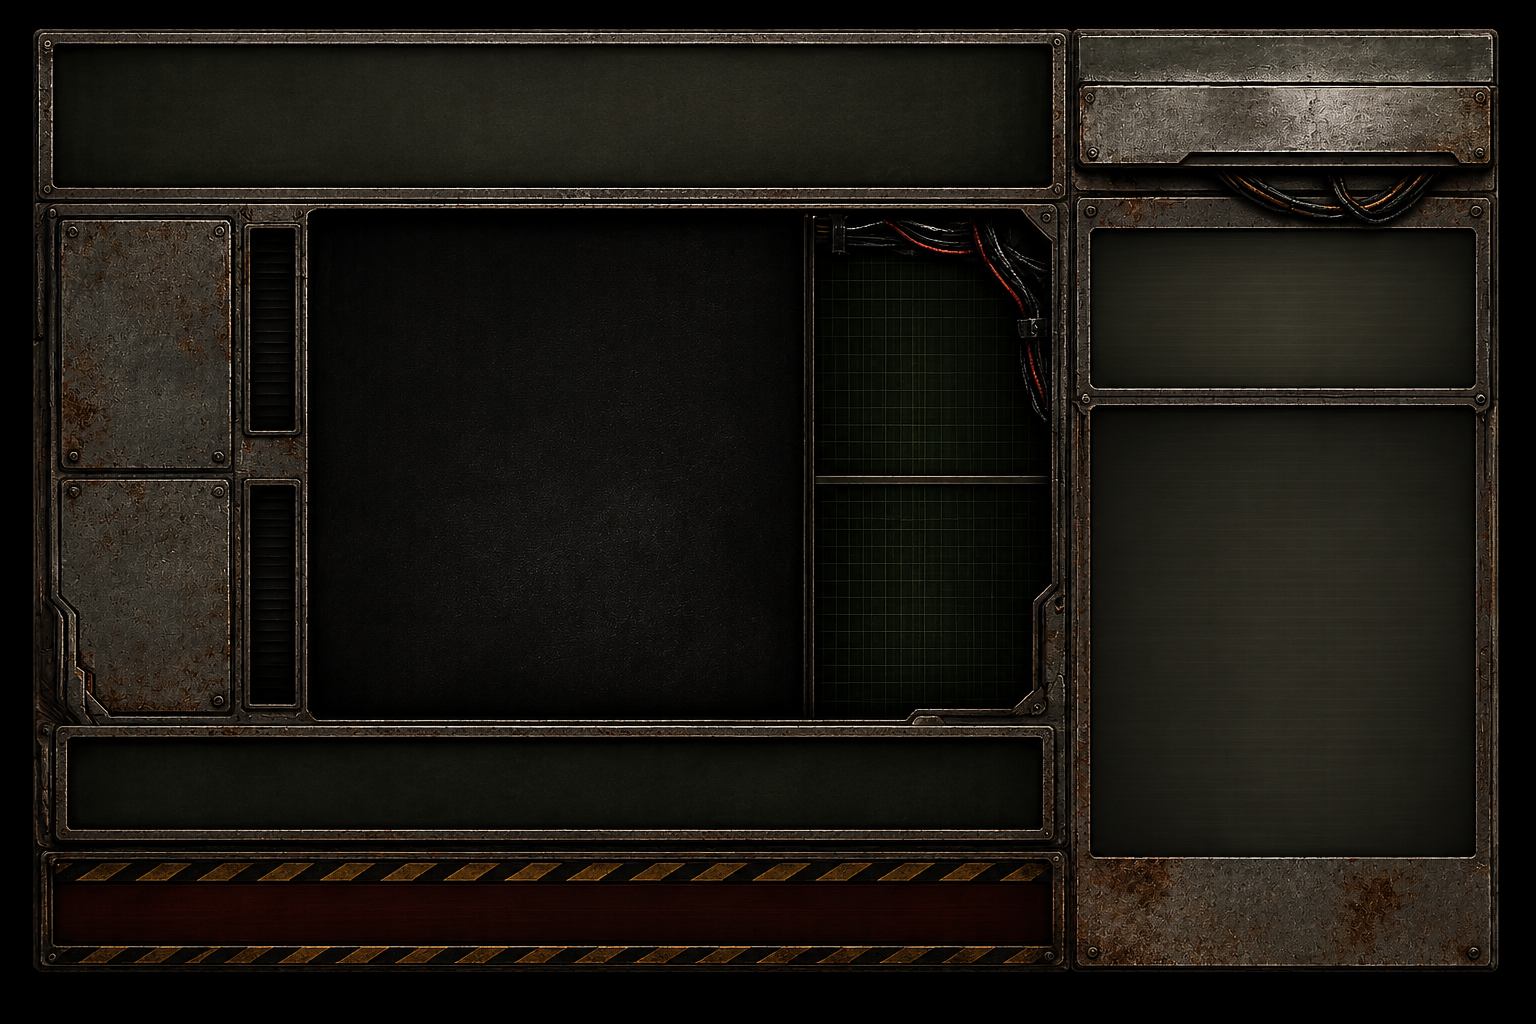
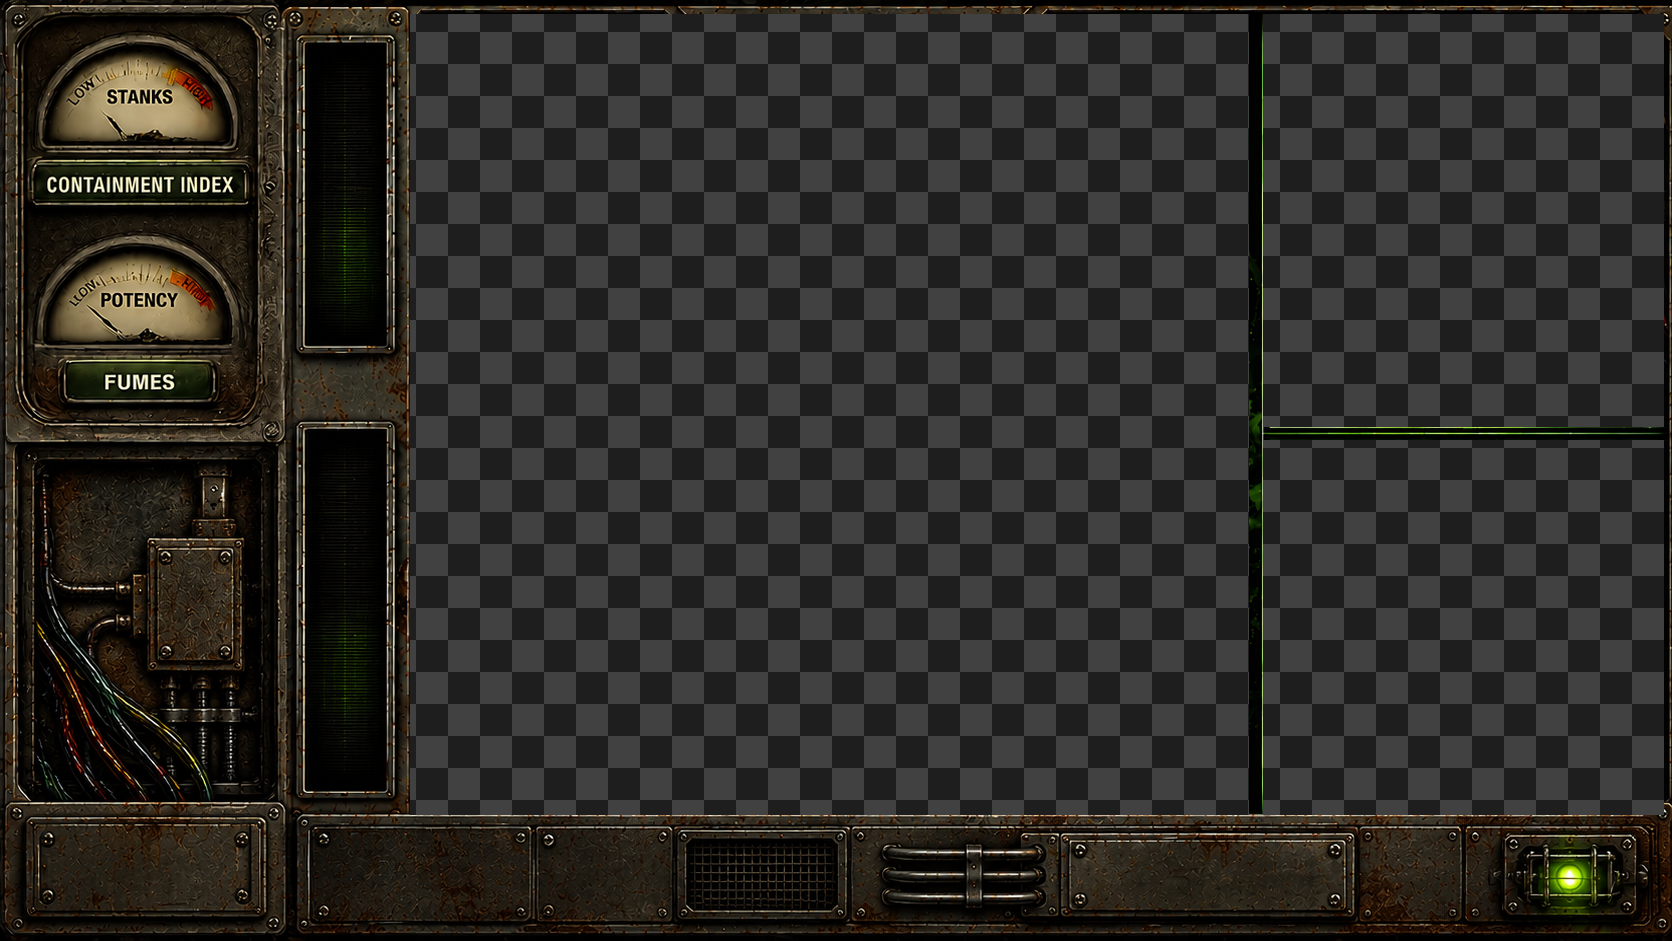
Player shell alignment and containment chambers

diff --git a/src/styles.css b/src/styles.css
@@ -7545,3 +7545,272 @@ dd {
     filter: brightness(1.12) saturate(1.08) !important;
   }
 }
+
+/* === SR-052 NEW PLAYER SHELL ALIGNMENT === */
+@media (min-width: 1101px) {
+  .industrialPlayerShell {
+    background:
+      url("/images/industrial-player-shell-v2-final.png")
+      center center / 100% 100% no-repeat !important;
+  }
+
+  /* These are now baked into the shell image */
+  .shellTitleStrip,
+  .shellMeters {
+    display: none !important;
+  }
+
+  .shellCoverViewport {
+    left: 24.25% !important;
+    top: 1.05% !important;
+    width: 51.1% !important;
+    height: 88.6% !important;
+    background:
+      url("/images/filth-skull-tile.png") center / 190px 190px repeat,
+      #020602 !important;
+  }
+
+  .shellCoverViewport img {
+    width: 100% !important;
+    height: 100% !important;
+    max-width: none !important;
+    max-height: none !important;
+    object-fit: cover !important;
+  }
+
+  .shellCoverViewport em {
+    top: 1rem !important;
+    left: 1rem !important;
+  }
+
+  .shellVizViewport {
+    left: 75.8% !important;
+    top: 1.05% !important;
+    width: 23.5% !important;
+    height: 45.4% !important;
+  }
+
+  .shellLyricsPanel {
+    left: 75.8% !important;
+    top: 46.9% !important;
+    width: 23.5% !important;
+    height: 42.6% !important;
+    padding: 0.75rem 0.85rem !important;
+  }
+
+  .shellDossierPanel {
+    left: 1.2% !important;
+    top: 65.8% !important;
+    width: 21.5% !important;
+    height: 22.7% !important;
+    padding: 0.75rem 0.75rem !important;
+  }
+
+  .shellDossierPanel h2 {
+    font-size: clamp(0.9rem, 1.15vw, 1.25rem) !important;
+    line-height: 1 !important;
+  }
+
+  .shellDossierPanel p {
+    font-size: 0.66rem !important;
+    line-height: 1.18 !important;
+    max-width: 100% !important;
+  }
+
+  .shellTransport {
+    left: 1.4% !important;
+    right: 1.4% !important;
+    bottom: 1.3% !important;
+    height: 7.2% !important;
+  }
+}
+
+/* === SR-053 PLAYER SHELL VIEWPORT CORRECTION === */
+@media (min-width: 1101px) {
+  .shellCoverViewport {
+    left: 24.25% !important;
+    top: 1.3% !important;
+    width: 51.0% !important;
+    height: 88.0% !important;
+  }
+
+  .shellCoverViewport img {
+    width: 100% !important;
+    height: 100% !important;
+    object-fit: cover !important;
+  }
+
+  .shellVizViewport {
+    left: 75.75% !important;
+    top: 1.25% !important;
+    width: 23.45% !important;
+    height: 45.5% !important;
+  }
+
+  .shellLyricsPanel {
+    left: 75.75% !important;
+    top: 47.15% !important;
+    width: 23.45% !important;
+    height: 42.0% !important;
+  }
+
+  .shellDossierPanel {
+    left: 1.25% !important;
+    top: 65.3% !important;
+    width: 21.7% !important;
+    height: 23.3% !important;
+  }
+
+  .shellTransport {
+    left: 1.2% !important;
+    right: 1.2% !important;
+    bottom: 1.1% !important;
+    height: 7.4% !important;
+  }
+}
+
+/* === SR-054 DESKTOP PLAYER/LIBRARY BALANCE === */
+@media (min-width: 1101px) {
+  .industrialShell {
+    grid-template-columns: 56.5vw 43.5vw !important;
+  }
+
+  .shellCoverViewport {
+    left: 24.4% !important;
+    top: 1.2% !important;
+    width: 51.0% !important;
+    height: 88.2% !important;
+  }
+
+  .shellVizViewport {
+    left: 75.7% !important;
+    top: 1.3% !important;
+    width: 23.4% !important;
+    height: 45.2% !important;
+  }
+
+  .shellLyricsPanel {
+    left: 75.7% !important;
+    top: 47.0% !important;
+    width: 23.4% !important;
+    height: 42.2% !important;
+  }
+
+  .shellDossierPanel {
+    left: 1.2% !important;
+    top: 65.6% !important;
+    width: 21.8% !important;
+    height: 22.8% !important;
+  }
+
+  .shellTransport {
+    left: 1.1% !important;
+    right: 1.1% !important;
+    bottom: 1.15% !important;
+    height: 7.2% !important;
+  }
+}
+
+/* === SR-055 TRUE TRANSPARENT WINDOW ALIGNMENT === */
+@media (min-width: 1101px) {
+  .shellCoverViewport {
+    left: 24.1% !important;
+    top: 1.4% !important;
+    width: 50.0% !important;
+    height: 88.0% !important;
+  }
+
+  .shellVizViewport {
+    left: 74.9% !important;
+    top: 1.4% !important;
+    width: 24.0% !important;
+    height: 45.2% !important;
+  }
+
+  .shellLyricsPanel {
+    left: 74.9% !important;
+    top: 47.0% !important;
+    width: 24.0% !important;
+    height: 42.0% !important;
+  }
+
+  .shellDossierPanel {
+    left: 1.2% !important;
+    top: 65.0% !important;
+    width: 21.8% !important;
+    height: 23.5% !important;
+  }
+
+  .shellCoverViewport img {
+    object-fit: cover !important;
+  }
+}
+
+/* === SR-056 VIEWPORT CONTAINMENT FIX === */
+@media (min-width: 1101px) {
+
+  .shellCoverViewport {
+    overflow: hidden !important;
+  }
+
+  .shellCoverViewport img {
+    width: 100% !important;
+    height: 100% !important;
+    max-width: none !important;
+    max-height: none !important;
+    object-fit: cover !important;
+    display: block !important;
+  }
+
+  .shellVizViewport {
+    overflow: hidden !important;
+  }
+
+  .shellLyricsPanel {
+    overflow: hidden !important;
+  }
+}
+
+/* === SR-057 STANK CHAMBER FILL === */
+@media (min-width: 1101px) {
+  .shellCoverViewport {
+    width: 49.1% !important;
+  }
+
+  .shellVizViewport {
+    background:
+      radial-gradient(circle at 50% 50%, rgba(158,255,53,0.16), transparent 48%),
+      repeating-linear-gradient(0deg, rgba(186,255,66,0.12) 0 1px, transparent 1px 10px),
+      repeating-linear-gradient(90deg, rgba(186,255,66,0.09) 0 1px, transparent 1px 10px),
+      rgba(0, 8, 0, 0.82) !important;
+    box-shadow: inset 0 0 28px rgba(0,0,0,0.9) !important;
+  }
+
+  .shellLyricsPanel {
+    background:
+      linear-gradient(rgba(0,0,0,0.72), rgba(0,0,0,0.82)),
+      repeating-linear-gradient(0deg, rgba(186,255,66,0.035) 0 1px, transparent 1px 6px),
+      rgba(0, 8, 0, 0.72) !important;
+    box-shadow: inset 0 0 26px rgba(0,0,0,0.88) !important;
+  }
+
+  .shellDossierPanel {
+    background:
+      linear-gradient(rgba(0,0,0,0.72), rgba(0,0,0,0.84)),
+      rgba(0, 8, 0, 0.7) !important;
+    box-shadow: inset 0 0 20px rgba(0,0,0,0.82) !important;
+  }
+
+  .shellDossierPanel h2 {
+    font-size: clamp(0.78rem, 0.98vw, 1.08rem) !important;
+  }
+
+  .shellDossierPanel p {
+    font-size: 0.58rem !important;
+  }
+
+  .shellScopeTrace {
+    top: 50% !important;
+    opacity: 0.9 !important;
+  }
+}